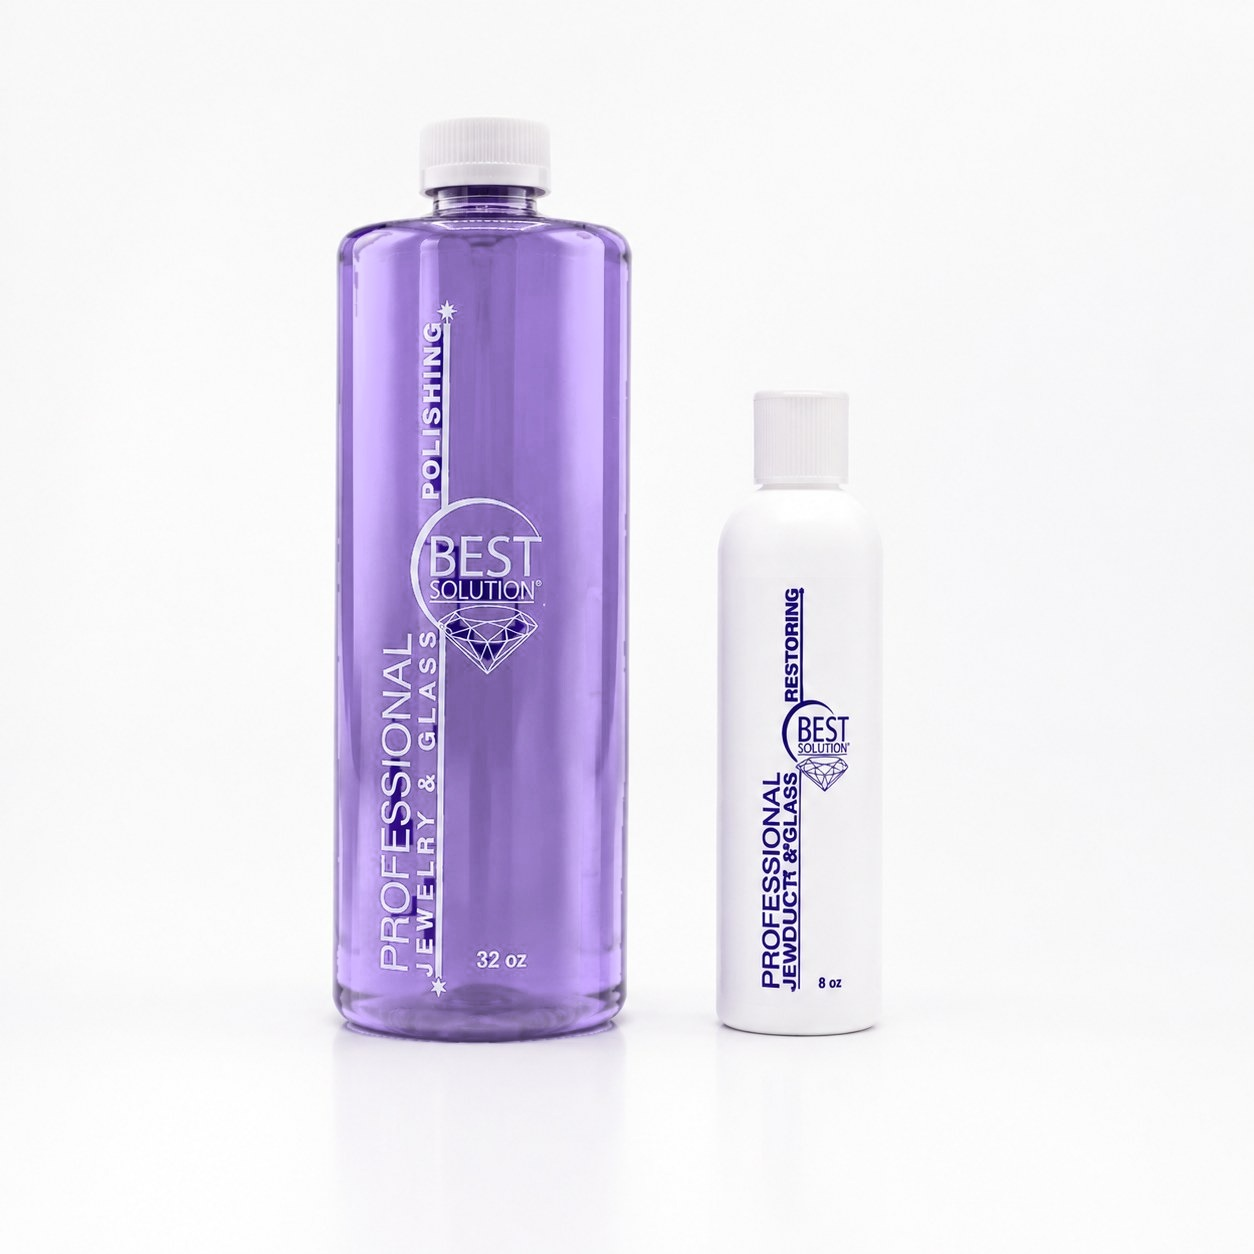
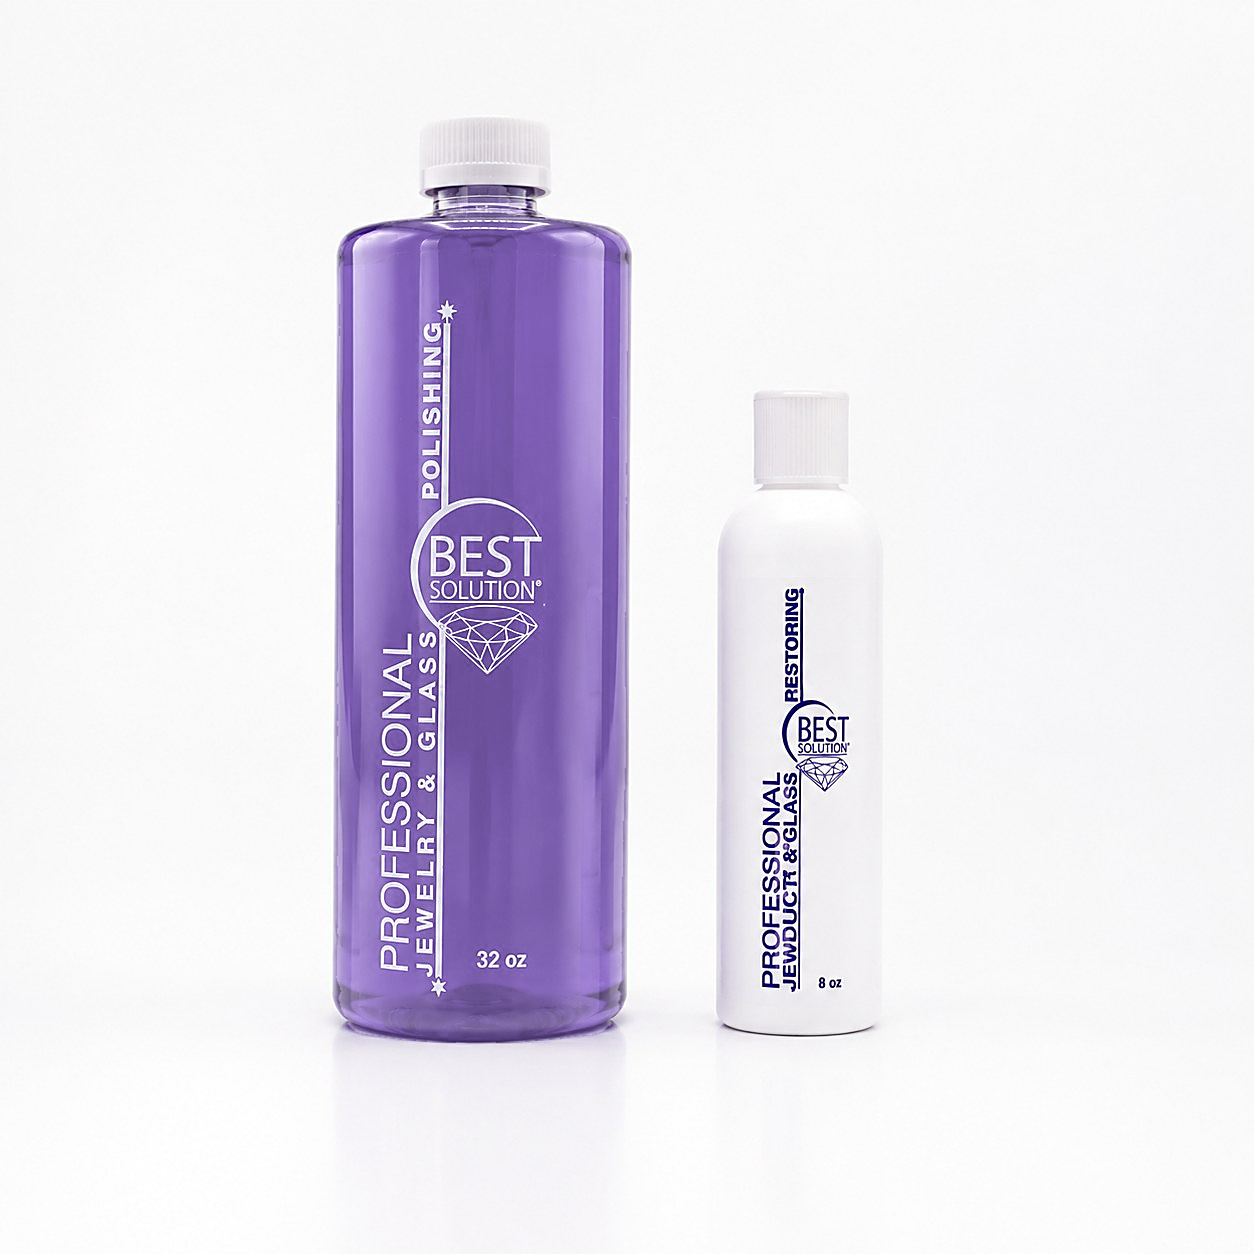
Rebuild lavender bottle photos from originals: no dark patches around lettering, glossy shading kept, sharpened; version tag on photo links

Changed region(s): [[0.2488, 0.1244, 0.4976, 0.8397], [0.5909, 0.4665, 0.6842, 0.8086]]

diff --git a/index.html b/index.html
@@ -29,7 +29,7 @@
       "name": "Best Solution Jewelry, Metal & Glass Polish",
       "brand": {"@type": "Brand", "name": "Best Solution"},
       "description": "Professional jewelry, metal and glass polish with no ammonia, no acid, and no abrasives. Safe on every gemstone including soft, porous opals and pearls. Cleans and shines jewelry, gemstones, eyeglasses, mirrors, glass, and every type of metal. Made in the USA, trusted since 1985.",
-      "image": "https://bestsolutionpolish.com/images/full-lineup.jpg",
+      "image": "https://bestsolutionpolish.com/images/full-lineup.jpg?v=3",
       "countryOfOrigin": "US",
       "offers": {
         "@type": "AggregateOffer",
@@ -100,13 +100,13 @@
 <meta property="og:description" content="Professional Results &bull; Safe &bull; Trusted Since 1985. No Ammonia. No Acid. No Abrasives. Free shipping on every order.">
 <meta property="og:type" content="website">
 <meta property="og:url" content="https://bestsolutionpolish.com/">
-<meta property="og:image" content="https://bestsolutionpolish.com/og-thumbnail.jpg">
+<meta property="og:image" content="https://bestsolutionpolish.com/og-thumbnail.jpg?v=3">
 <meta property="og:image:width" content="1200">
 <meta property="og:image:height" content="619">
 <meta name="twitter:card" content="summary_large_image">
 <meta name="twitter:title" content="Best Solution&reg; Jewelry, Metal &amp; Glass Polish">
 <meta name="twitter:description" content="Professional Results &bull; Safe &bull; Trusted Since 1985. No Ammonia. No Acid. No Abrasives.">
-<meta name="twitter:image" content="https://bestsolutionpolish.com/og-thumbnail.jpg">
+<meta name="twitter:image" content="https://bestsolutionpolish.com/og-thumbnail.jpg?v=3">
 <meta name="theme-color" content="#4A3680">
 
 <!-- Navy diamond favicon -->
@@ -1118,7 +1118,7 @@ a{color:var(--royal)}
         <p class="h-reorder">Already love it? <a href="#shop">Reorder in 30 seconds</a> &middot; free shipping on every order.</p>
       </div>
       <figure class="hero-photo">
-        <img src="images/full-lineup.jpg" width="1200" height="800"
+        <img src="images/full-lineup.jpg?v=3" width="1200" height="800"
              alt="The full Best Solution lineup: 32oz, 16oz, 8oz and 2oz purple polish bottles plus 8oz and 2oz white C5 restoration lotion bottles">
         <figcaption>The Full Lineup &middot; Polish &amp; C5 &middot; 2oz to 32oz</figcaption>
       </figure>
@@ -1469,7 +1469,7 @@ a{color:var(--royal)}
             </div>
           </div>
           <div class="step two">
-            <img class="bottle" src="images/step-polish.png" alt="Best Solution purple polish, 8oz spray bottle" loading="lazy">
+            <img class="bottle" src="images/step-polish.png?v=3" alt="Best Solution purple polish, 8oz spray bottle" loading="lazy">
             <div>
               <span class="num">Step 2 &middot; Best Solution Polish</span>
               <h3>Spray, Brush, Wipe, or Soak</h3>
